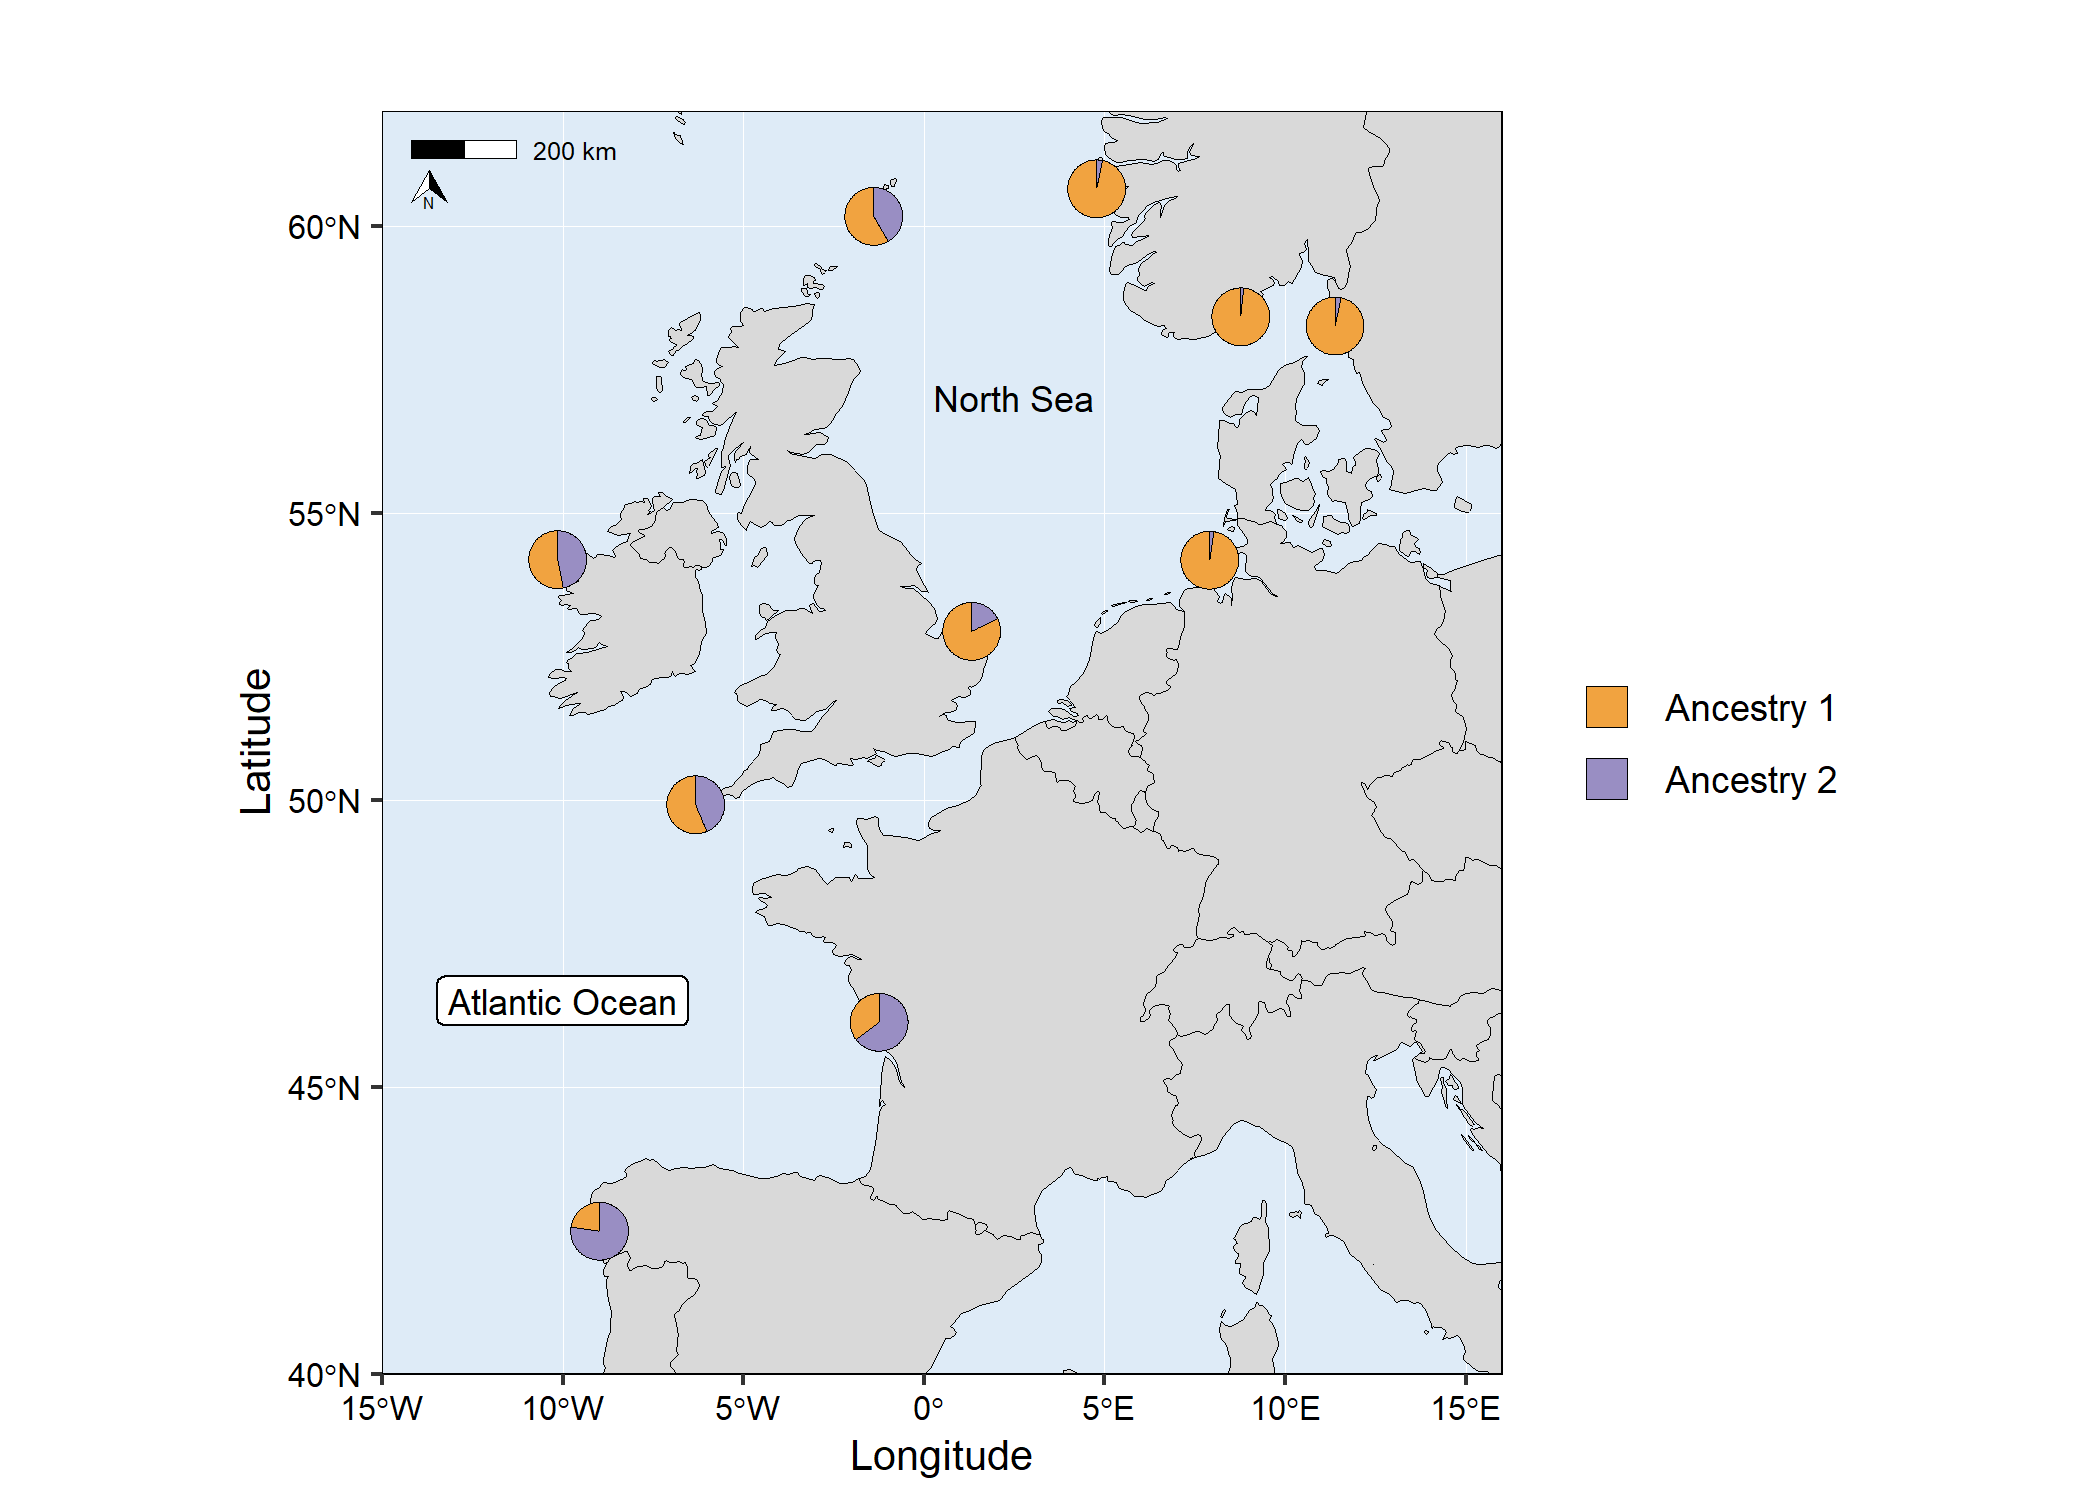
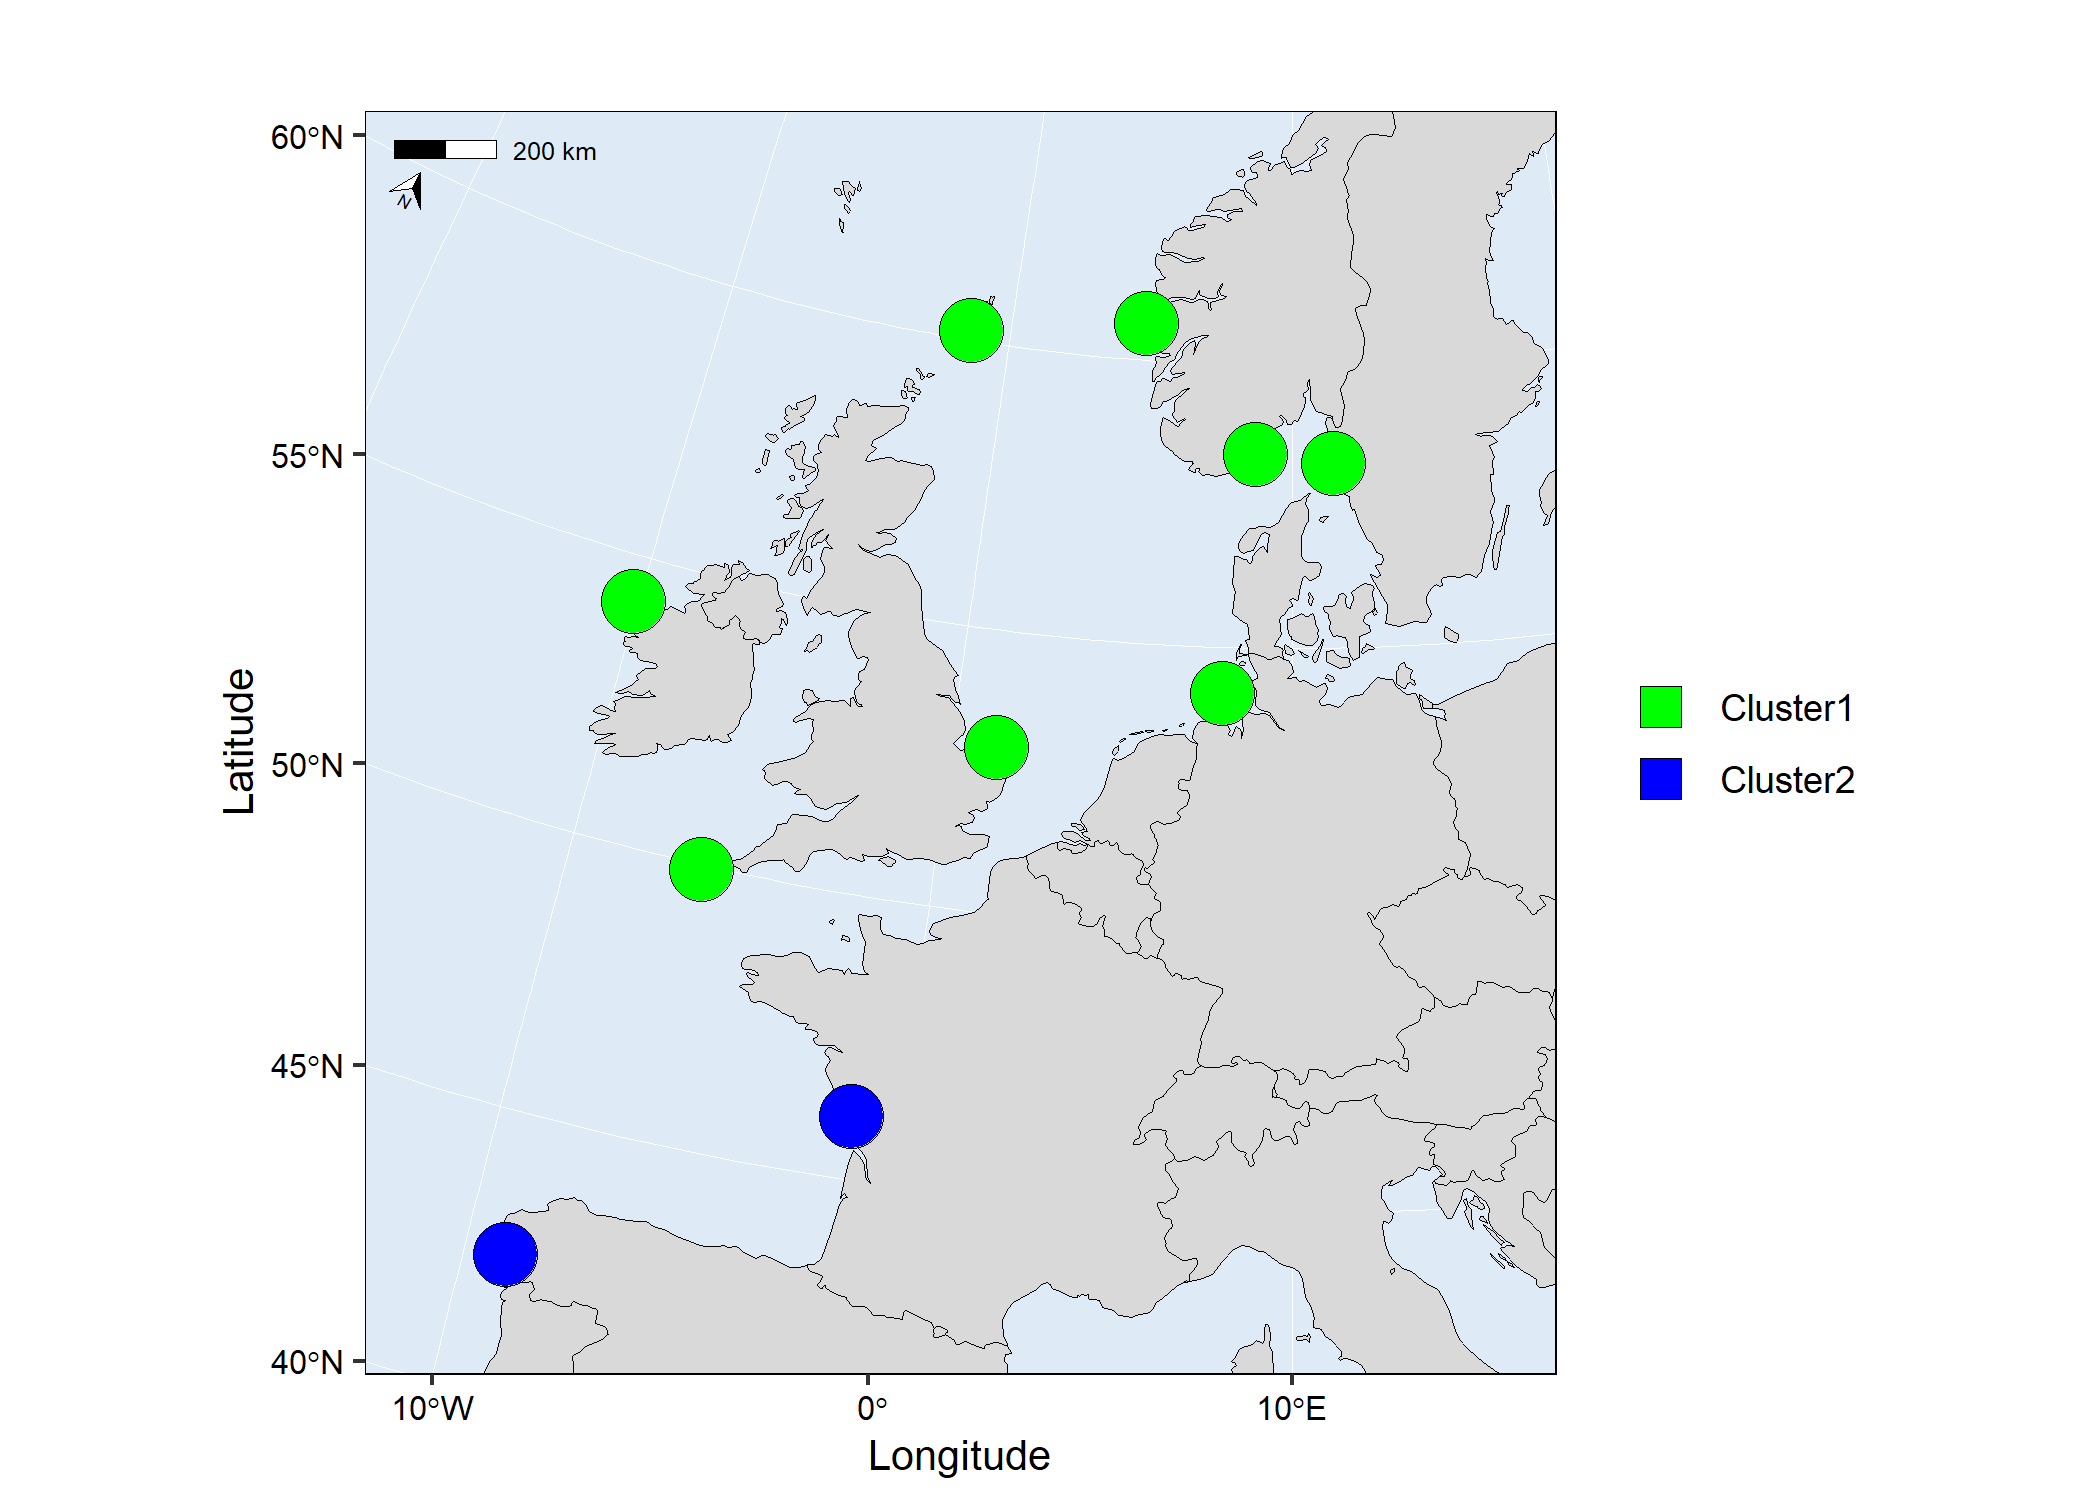
Update readme with new repel example

Changed region(s): [[0.0929, 0.0613, 0.8976, 0.9813], [0.4024, 0.1227, 0.4333, 0.184], [0.3405, 0.92, 0.3714, 0.9507]]

diff --git a/README.md b/README.md
@@ -58,7 +58,9 @@ population structure. *Molecular Ecology Resources*, 24: e13943. DOI:
 #### Basic usage of mapmixture
 
 <details>
+
 <summary>
+
 Code
 </summary>
 
@@ -83,10 +85,90 @@ map1 <- mapmixture(admixture1, coordinates, crs = 3035)
 
 <img src="man/figures/README-unnamed-chunk-3-1.png" width="100%" />
 
+#### Experimental: Repelling pies
+
+This feature is in test phase (`repel = TRUE`). It is not perfect but
+may help repel pies close together by experimenting with the arguments
+`repel_force`, `repel_spring` and `repel_padding`.
+
+| Parameter | Type | Description |
+|----|----|----|
+| `repel_force` | numeric | How aggressively overlapping pies push apart |
+| `repel_spring` | numeric | How strongly pies are pulled back toward their true location |
+| `repel_padding` | numeric | Extra buffer space between pies (proportion of radius) |
+
+Install the latest development version from GitHub to try out this
+feature:
+
+``` r
+# install.packages("devtools")
+devtools::install_github("Tom-Jenkins/mapmixture")
+```
+
+<details>
+
+<summary>
+
+Code
+</summary>
+
+``` r
+# Load packages
+library(mapmixture)
+library(ggplot2)
+library(gridExtra)
+
+# Read in admixture file format 1
+file <- system.file("extdata", "admixture1.csv", package = "mapmixture")
+admixture1 <- read.csv(file)
+
+# Read in coordinates file
+file <- system.file("extdata", "coordinates_repel.csv", package = "mapmixture")
+coordinates <- read.csv(file)
+
+# Run mapmixture with repel
+map_repel <- mapmixture(
+  admixture_df = admixture1,
+  coords_df = coordinates,
+  cluster_cols = c("#f1a340","#998ec3"),
+  cluster_names = c("Ancestry 1","Ancestry 2"),
+  crs = 4326,
+  boundary = c(xmin=-10, xmax=5, ymin=49.0, ymax=60),
+  pie_size = 1,
+  plot_title = "Repelled",
+  repel = TRUE,
+  repel_force = 1.5,
+  repel_spring = 0.1,
+  repel_padding = 0.15
+) + theme(legend.position = "none", plot.title = element_text(hjust = 0.5))
+
+# Run mapmixture with repel
+map_orig <- mapmixture(
+  admixture_df = admixture1,
+  coords_df = coordinates,
+  cluster_cols = c("#f1a340","#998ec3"),
+  cluster_names = c("Ancestry 1","Ancestry 2"),
+  crs = 4326,
+  boundary = c(xmin=-10, xmax=5, ymin=49.0, ymax=60),
+  pie_size = 1,
+  plot_title = "Original",
+  repel = FALSE
+) + theme(legend.position = "none", plot.title = element_text(hjust = 0.5))
+
+# Arrange plots
+# grid.arrange(map_orig, map_repel, ncol = 2)
+```
+
+</details>
+
+<img src="man/figures/README-unnamed-chunk-5-1.png" width="100%" />
+
 #### Customised usage of mapmixture with a high resolution map
 
 <details>
+
 <summary>
+
 Code
 </summary>
 
@@ -138,12 +220,14 @@ map2 <- mapmixture(
 
 </details>
 
-<img src="man/figures/README-unnamed-chunk-5-1.png" width="100%" />
+<img src="man/figures/README-unnamed-chunk-7-1.png" width="100%" />
 
 #### Admixture map with single coloured circles
 
 <details>
+
 <summary>
+
 Code
 </summary>
 
@@ -166,12 +250,14 @@ map3 <- mapmixture(admixture3, coordinates, crs = 3035)
 
 </details>
 
-<img src="man/figures/README-unnamed-chunk-7-1.png" width="100%" />
+<img src="man/figures/README-unnamed-chunk-9-1.png" width="100%" />
 
 #### Add additional geoms or theme options to mapmixture ggplot object
 
 <details>
+
 <summary>
+
 Code
 </summary>
 
@@ -224,12 +310,14 @@ map4 <- mapmixture(
 
 </details>
 
-<img src="man/figures/README-unnamed-chunk-9-1.png" width="100%" />
+<img src="man/figures/README-unnamed-chunk-11-1.png" width="100%" />
 
 #### Combine admixture map and barplot ggplot objects into a single figure
 
 <details>
+
 <summary>
+
 Code
 </summary>
 
@@ -294,10 +382,12 @@ structure_barplot <- structure_plot(
 
 </details>
 
-<img src="man/figures/README-unnamed-chunk-11-1.png" width="100%" />
+<img src="man/figures/README-unnamed-chunk-13-1.png" width="100%" />
 
 <details>
+
 <summary>
+
 Code
 </summary>
 
@@ -352,7 +442,7 @@ facet_barplot <- structure_plot(admixture1,
 
 </details>
 
-<img src="man/figures/README-unnamed-chunk-13-1.png" width="100%" />
+<img src="man/figures/README-unnamed-chunk-15-1.png" width="100%" />
 
 #### Use a raster as the basemap
 
@@ -364,7 +454,9 @@ package to use this feature. Currently, the `basemap` argument accepts a
 `SpatRaster` or a `sf` object.
 
 <details>
+
 <summary>
+
 Code
 </summary>
 
@@ -374,7 +466,7 @@ library(mapmixture)
 library(terra)
 
 # Create SpatRaster object
-earth <- terra::rast("../NE1_50M_SR_W/NE1_50M_SR_W.tif")
+earth <- terra::rast("../NE1_50M_SR_W.tif")
 
 # Read in admixture file format 1
 file <- system.file("extdata", "admixture1.csv", package = "mapmixture")
@@ -391,7 +483,7 @@ map7 <- mapmixture(admixture1, coordinates, crs = 3035, basemap = earth)
 
 </details>
 
-<img src="man/figures/README-unnamed-chunk-15-1.png" width="100%" />
+<img src="man/figures/README-unnamed-chunk-17-1.png" width="100%" />
 
 #### Add pie charts to an existing map
 
@@ -400,7 +492,9 @@ from the Natural England Open Data Geoportal
 [here](https://naturalengland-defra.opendata.arcgis.com/datasets/Defra::marine-conservation-zones-england/explore?location=53.749917%2C-5.534585%2C6.27).
 
 <details>
+
 <summary>
+
 Code
 </summary>
 
@@ -466,12 +560,14 @@ map8 <- ggplot()+
 
 </details>
 
-<img src="man/figures/README-unnamed-chunk-17-1.png" width="100%" />
+<img src="man/figures/README-unnamed-chunk-19-1.png" width="100%" />
 
 #### Scatter plot of PCA or DAPC results from genotypes
 
 <details>
+
 <summary>
+
 Code
 </summary>
 
@@ -593,7 +689,7 @@ scatter4 <- scatter_plot(
 
 </details>
 
-<img src="man/figures/README-unnamed-chunk-19-1.png" width="100%" />
+<img src="man/figures/README-unnamed-chunk-21-1.png" width="100%" />
 
 ## Launch interactive Shiny app
 
